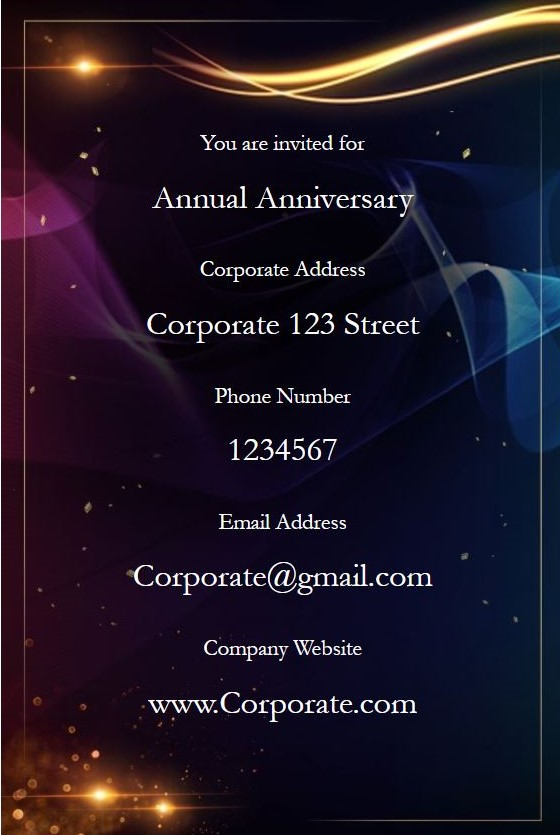
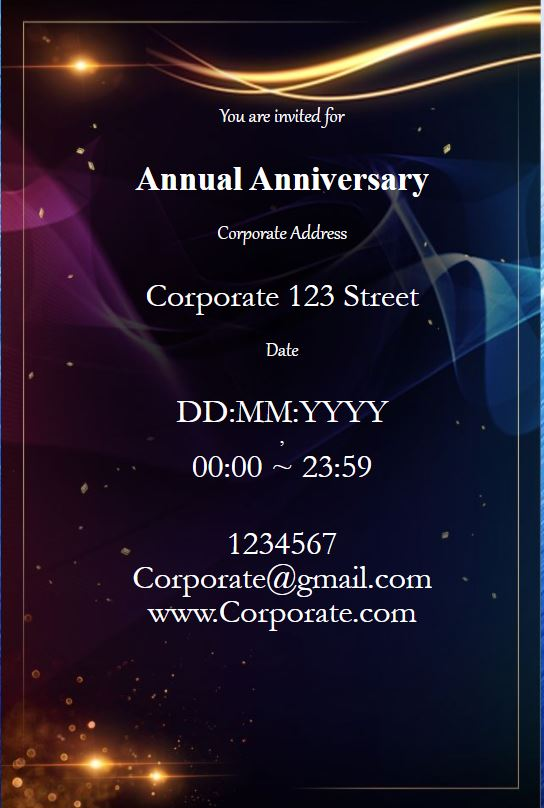
update

diff --git a/CorporateTemplate2.html b/CorporateTemplate2.html
@@ -12,6 +12,16 @@ git remote add origin https://github.com/Zaghloul22/BWEP-Assignment-2-DITN11-Gro
 git push -u origin main-->
 
 <style media="screen">
+
+body{
+  background-image: url(Website_Background.jfif);
+  background-repeat: no-repeat;
+  background-size: cover;
+  margin: 0 auto;
+  background-position: center;
+  background-attachment: fixed;
+}
+
   #content{
     height: 650px;
     width: 500px;
@@ -22,7 +32,7 @@ git push -u origin main-->
     padding: 0;
     margin: 0 auto;
     text-align: center;
-    padding-top:100px;
+    padding-top:70px;
   }
 
   p{
@@ -31,21 +41,16 @@ git push -u origin main-->
     font-family: Gabriola;
   }
 
-  #Company{
-    font-size: 60px;
-    font-family: Gabriola;
-    font-weight: bolder;
-  }
-
-  #Event, #Address, #Phone, #Email, #Website{
-    height: 50px;
+  #Event, #Address, #Phone, #Email, #Website, #Date, #Time{
+    height: 30px;
     width: 300px;
-    padding: 0;
     font-size: 30px;
     font-family: Garamond;
     margin: 0 auto;
     color: white;
   }
+
+  #Event{font-family:Lobster; font-weight: bolder;}
 
   input,textarea{
     background-color:#ADD8E6;
@@ -71,6 +76,8 @@ function ChangeMe(){
   var phone = document.getElementById("phone").value;
   var email = document.getElementById("email").value;
   var website = document.getElementById("website").value;
+  var date = document.getElementById("date").value;
+  var time = document.getElementById("time").value;
 
   var box1 = document.getElementById("Event");
   box1.innerHTML = eventname;
@@ -82,13 +89,19 @@ function ChangeMe(){
   box4.innerHTML = email;
   var box5 = document.getElementById("Website");
   box5.innerHTML = website;
+  var box6 = document.getElementById("Date");
+  box6.innerHTML = date;
+  var box7 = document.getElementById("Time");
+  box5.innerHTML = time;
 
- if(eventname&&address&&phone&&email&&website){
+ if(eventname&&address&&phone&&email&&website&&date&&time){
   localStorage.setItem("Event:",eventname);
   localStorage.setItem("Corporate Address:",address);
   localStorage.setItem("Phone Number:",phone);
   localStorage.setItem("Corporate Email:",email);
   localStorage.setItem("Corporate Website:",website);
+  localStorage.setItem("Date:",date);
+  localStorage.setItem("Time:",time);
 }
   }
 </script>
@@ -102,14 +115,13 @@ function ChangeMe(){
         <p>Corporate Address</p>
         <div id="Address">Corporate 123 Street</div>
 
-        <p>Phone Number</p>
-        <div id="Phone">1234567</div>
+        <p>Date</p>
+        <div id="Date">DD:MM:YYYY</div>,
+        <div id="Time">00:00 ~ 23:59</div><br/>
 
-        <p>Email Address</p>
-        <div id="Email">Corporate@gmail.com</div>
-
-        <p>Company Website</p>
-        <div id="Website">www.Corporate.com</div>
+        <p id="Phone">1234567</p>
+        <p id="Email">Corporate@gmail.com</p>
+        <p id="Website">www.Corporate.com</p>
       </div>
     </div>
     <br/>
@@ -133,6 +145,16 @@ function ChangeMe(){
       <label>Website</label>
       <div class="drag1">
         <input id="website" type="url"/><br>
+      </div>
+
+      <label>Date</label>
+      <div class="drag1">
+        <input id="date" type=" date"/><br>
+      </div>
+
+      <label>Time</label>
+      <div class="drag1">
+        <input id="time" type="datetime-local"/><br>
       </div>
 
       <label>Address</label>

diff --git a/CorporateTemplate1.html b/CorporateTemplate1.html
@@ -14,6 +14,15 @@ git push -u origin main-->
 
 <style media="screen">
 
+body{
+  background-image: url(Website_Background.jfif);
+  background-repeat: no-repeat;
+  background-size: cover;
+  margin: 0 auto;
+  background-position: center;
+  background-attachment: fixed;
+}
+
   #content{
     border:8px ridge gold;
     height: 700px;
@@ -72,6 +81,7 @@ function change(){
   var eventname = document.getElementById("event1").value;
   var address = document.getElementById("address1").value;
   var date = document.getElementById("date1").value;
+  var time = document.getElementById("time1").value;
 
   var box1 = document.getElementById("event2");
   box1.innerHTML = eventname;
@@ -79,11 +89,14 @@ function change(){
   box2.innerHTML = address;
   var box3 = document.getElementById("date2");
   box3.innerHTML = date;
+  var box4 = document.getElementById("time2");
+  box3.innerHTML = time;
 
-  if(eventname&&address&&date){
+  if(eventname&&address&&date&&time){
   localStorage.setItem("Event:",eventname);
   localStorage.setItem("Corporate Address:",address);
   localStorage.setItem("Date:",date);
+  localStorage.setItem("Time:",time);
 }
 }
 </script>
@@ -97,6 +110,8 @@ function change(){
         <div class="drag2" id="address2">Corporate, floor 5</div>
         <p>Date</p>
         <div class="drag2" id="date2">day/month/year</div>
+        <p>Time</p>
+        <div class="drag2" id="time2">00:00 ~ 23:59</div>
     </div>
 
     <form>
@@ -113,6 +128,11 @@ function change(){
       <label>Date:</label>
       <div class="drag1">
         <input id="date1"type="date"><br>
+      </div>
+
+      <label>Time</label>
+      <div class="drag1">
+        <input id="time1" type="datetime-local"/><br>
       </div>
 
       <button type="button" name="button" onclick="change()">Submit</button>

diff --git a/Assigment.html b/Assigment.html
@@ -17,15 +17,44 @@
       #navigation{
         display: flex;
         margin: 0;
-        background: #f0ffff;
+        background: indigo;
         flex-flow: row wrap;
         justify-content: center;
         text-align: center;
-        color: silver;
+        color: #ADD8E6;
         padding: 1em;
         font-size: 80px;
         font-family: Gabriola;
         height: 50px;
+      }
+
+      #footer{
+        display: flex;
+        list-style: none;
+        margin: 0;
+        background-color:navy;
+        flex-flow: row wrap;
+        justify-content: center;
+      }
+
+      #footer li{
+        display: block;
+        color: #ADD8E6;
+        text-decoration: none;
+        padding: 1em;
+      }
+
+      @media all and(max-width: 1920px){
+        #footer{
+          justify-content: space-around;
+        }
+      }
+
+      @media all and (max-width:800px){
+        #footer{
+          flex-flow: column wrap;
+          padding: 0;
+        }
       }
 
 div {
@@ -98,5 +127,10 @@ img{
                             <div><a href="  ">Edit this template</a></div>
                           </div>
                           <picture><source media="(max-width: 400px)" srcset="  "></div>
+
+        <ul id="footer">
+          <li>Phone Number: +673 000 0000</li>
+          <li>Email: website@email.com</li>
+        </ul>
   </body>
 </html>
